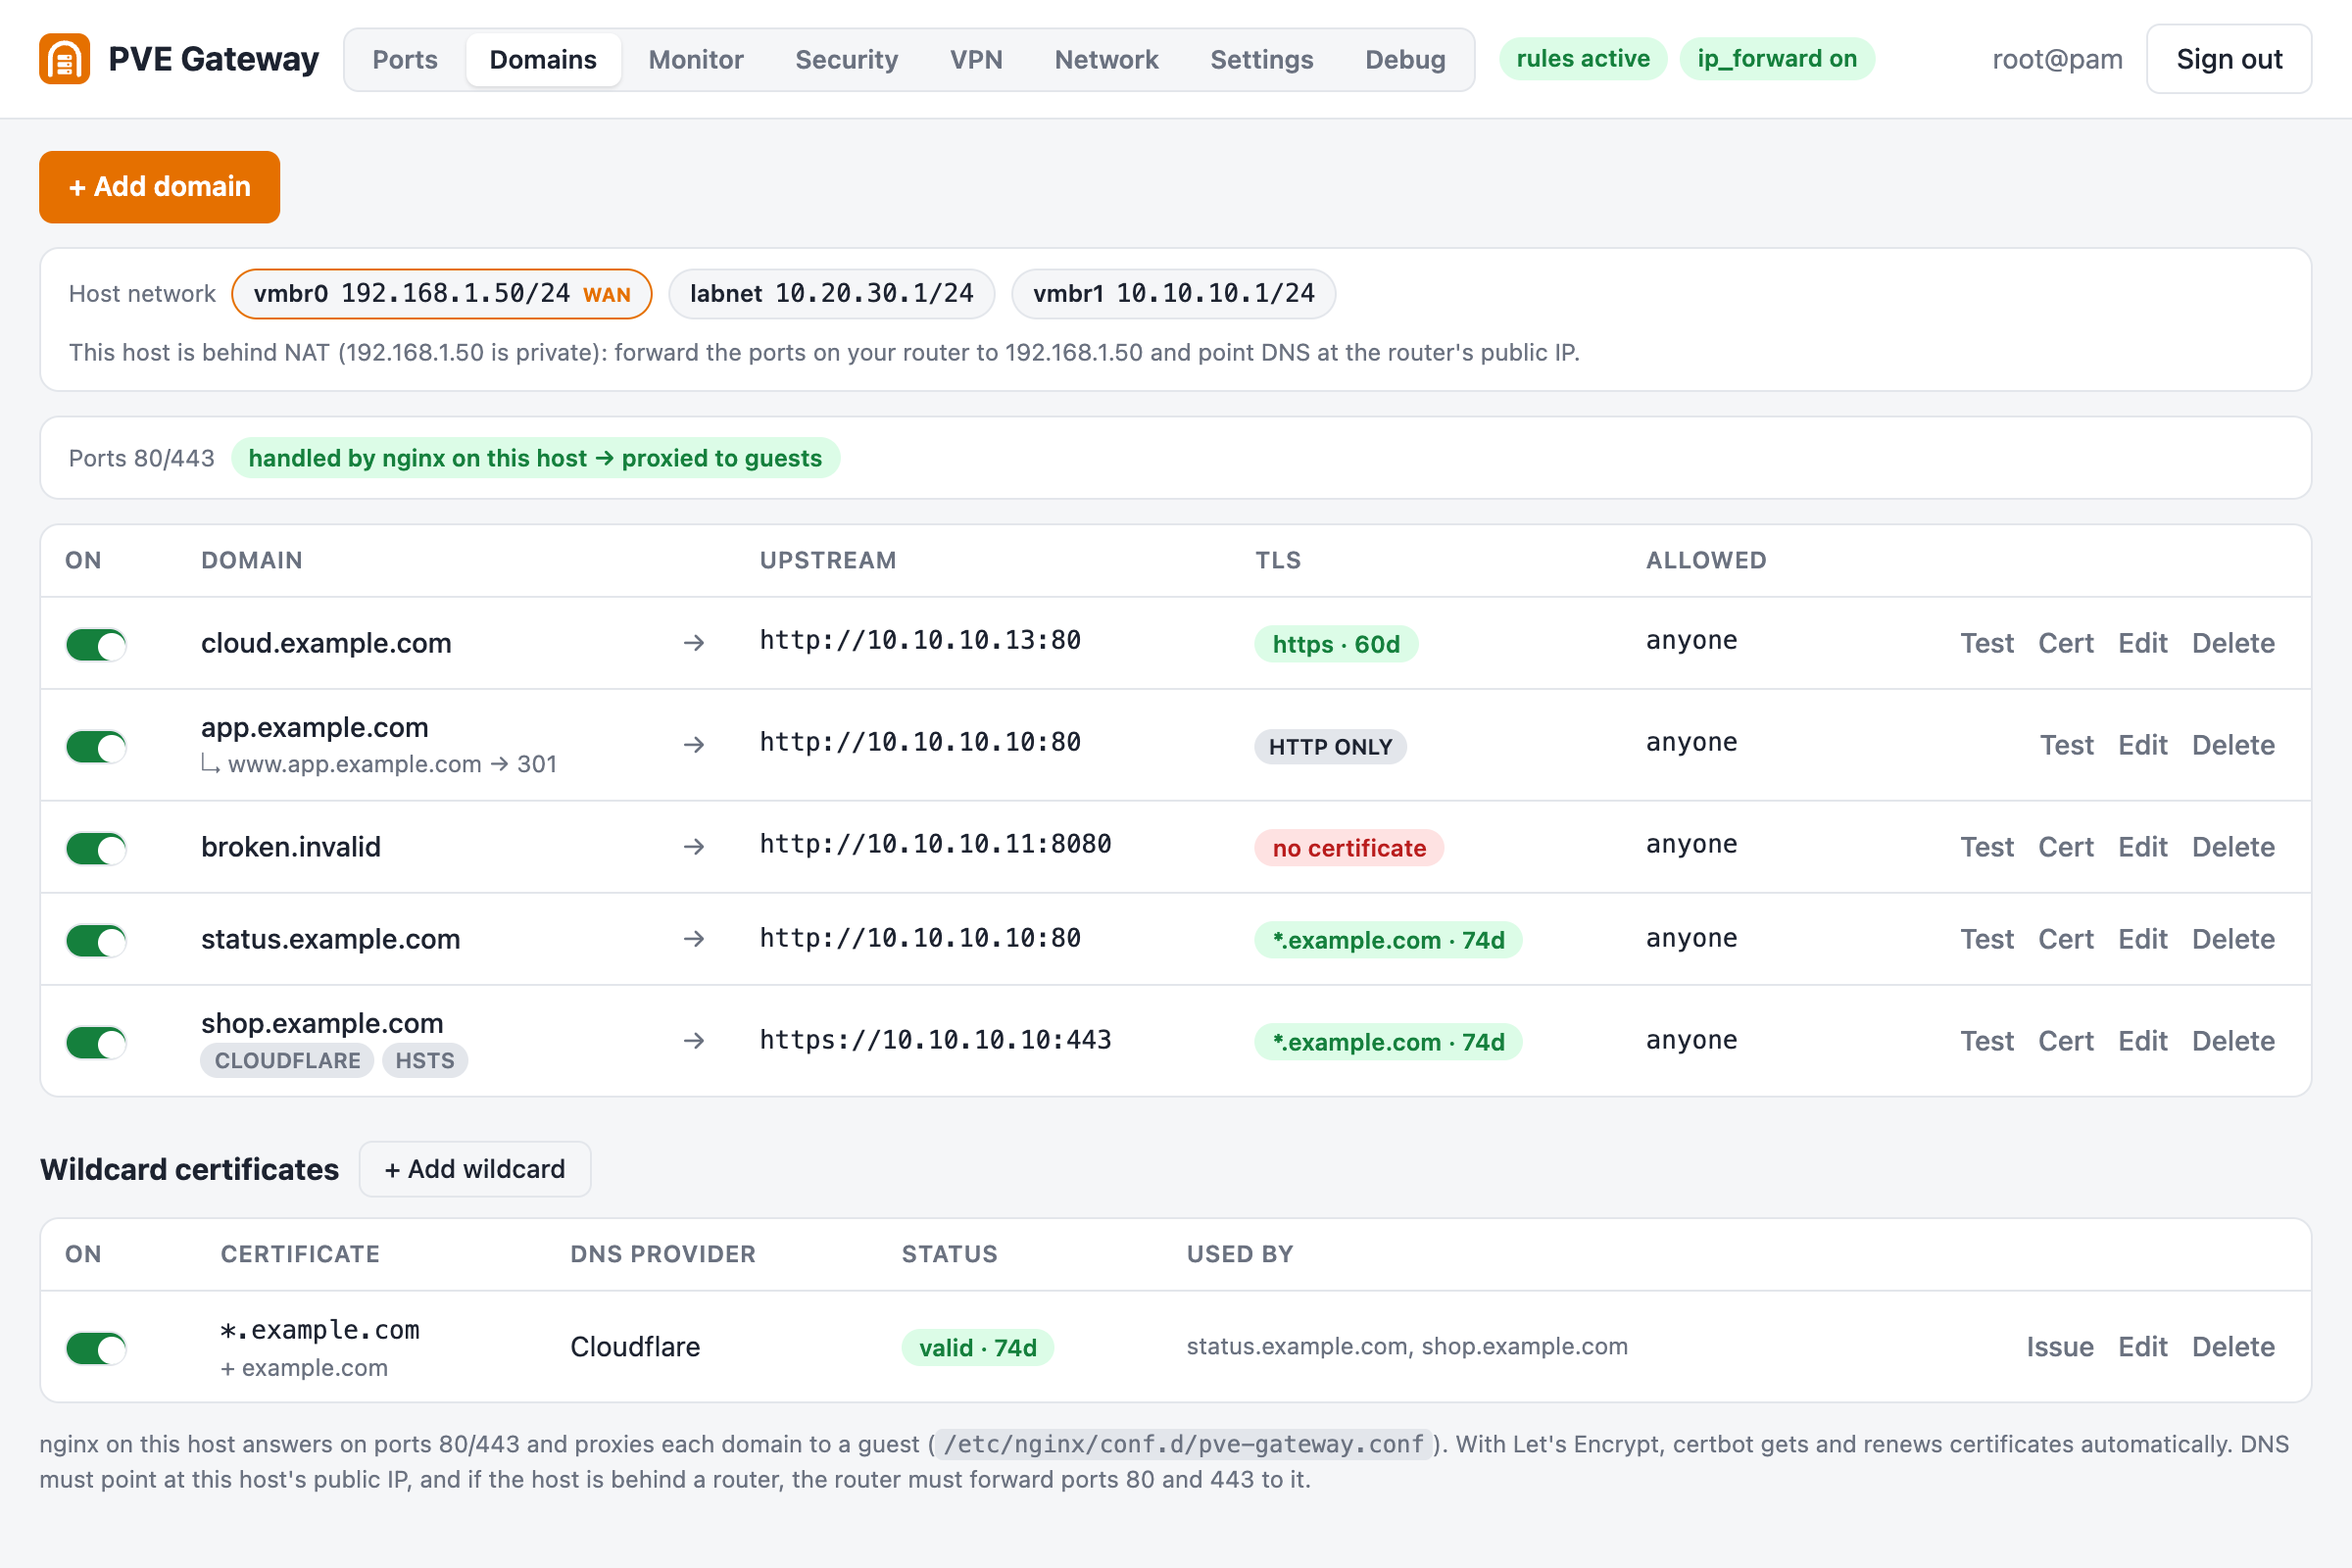
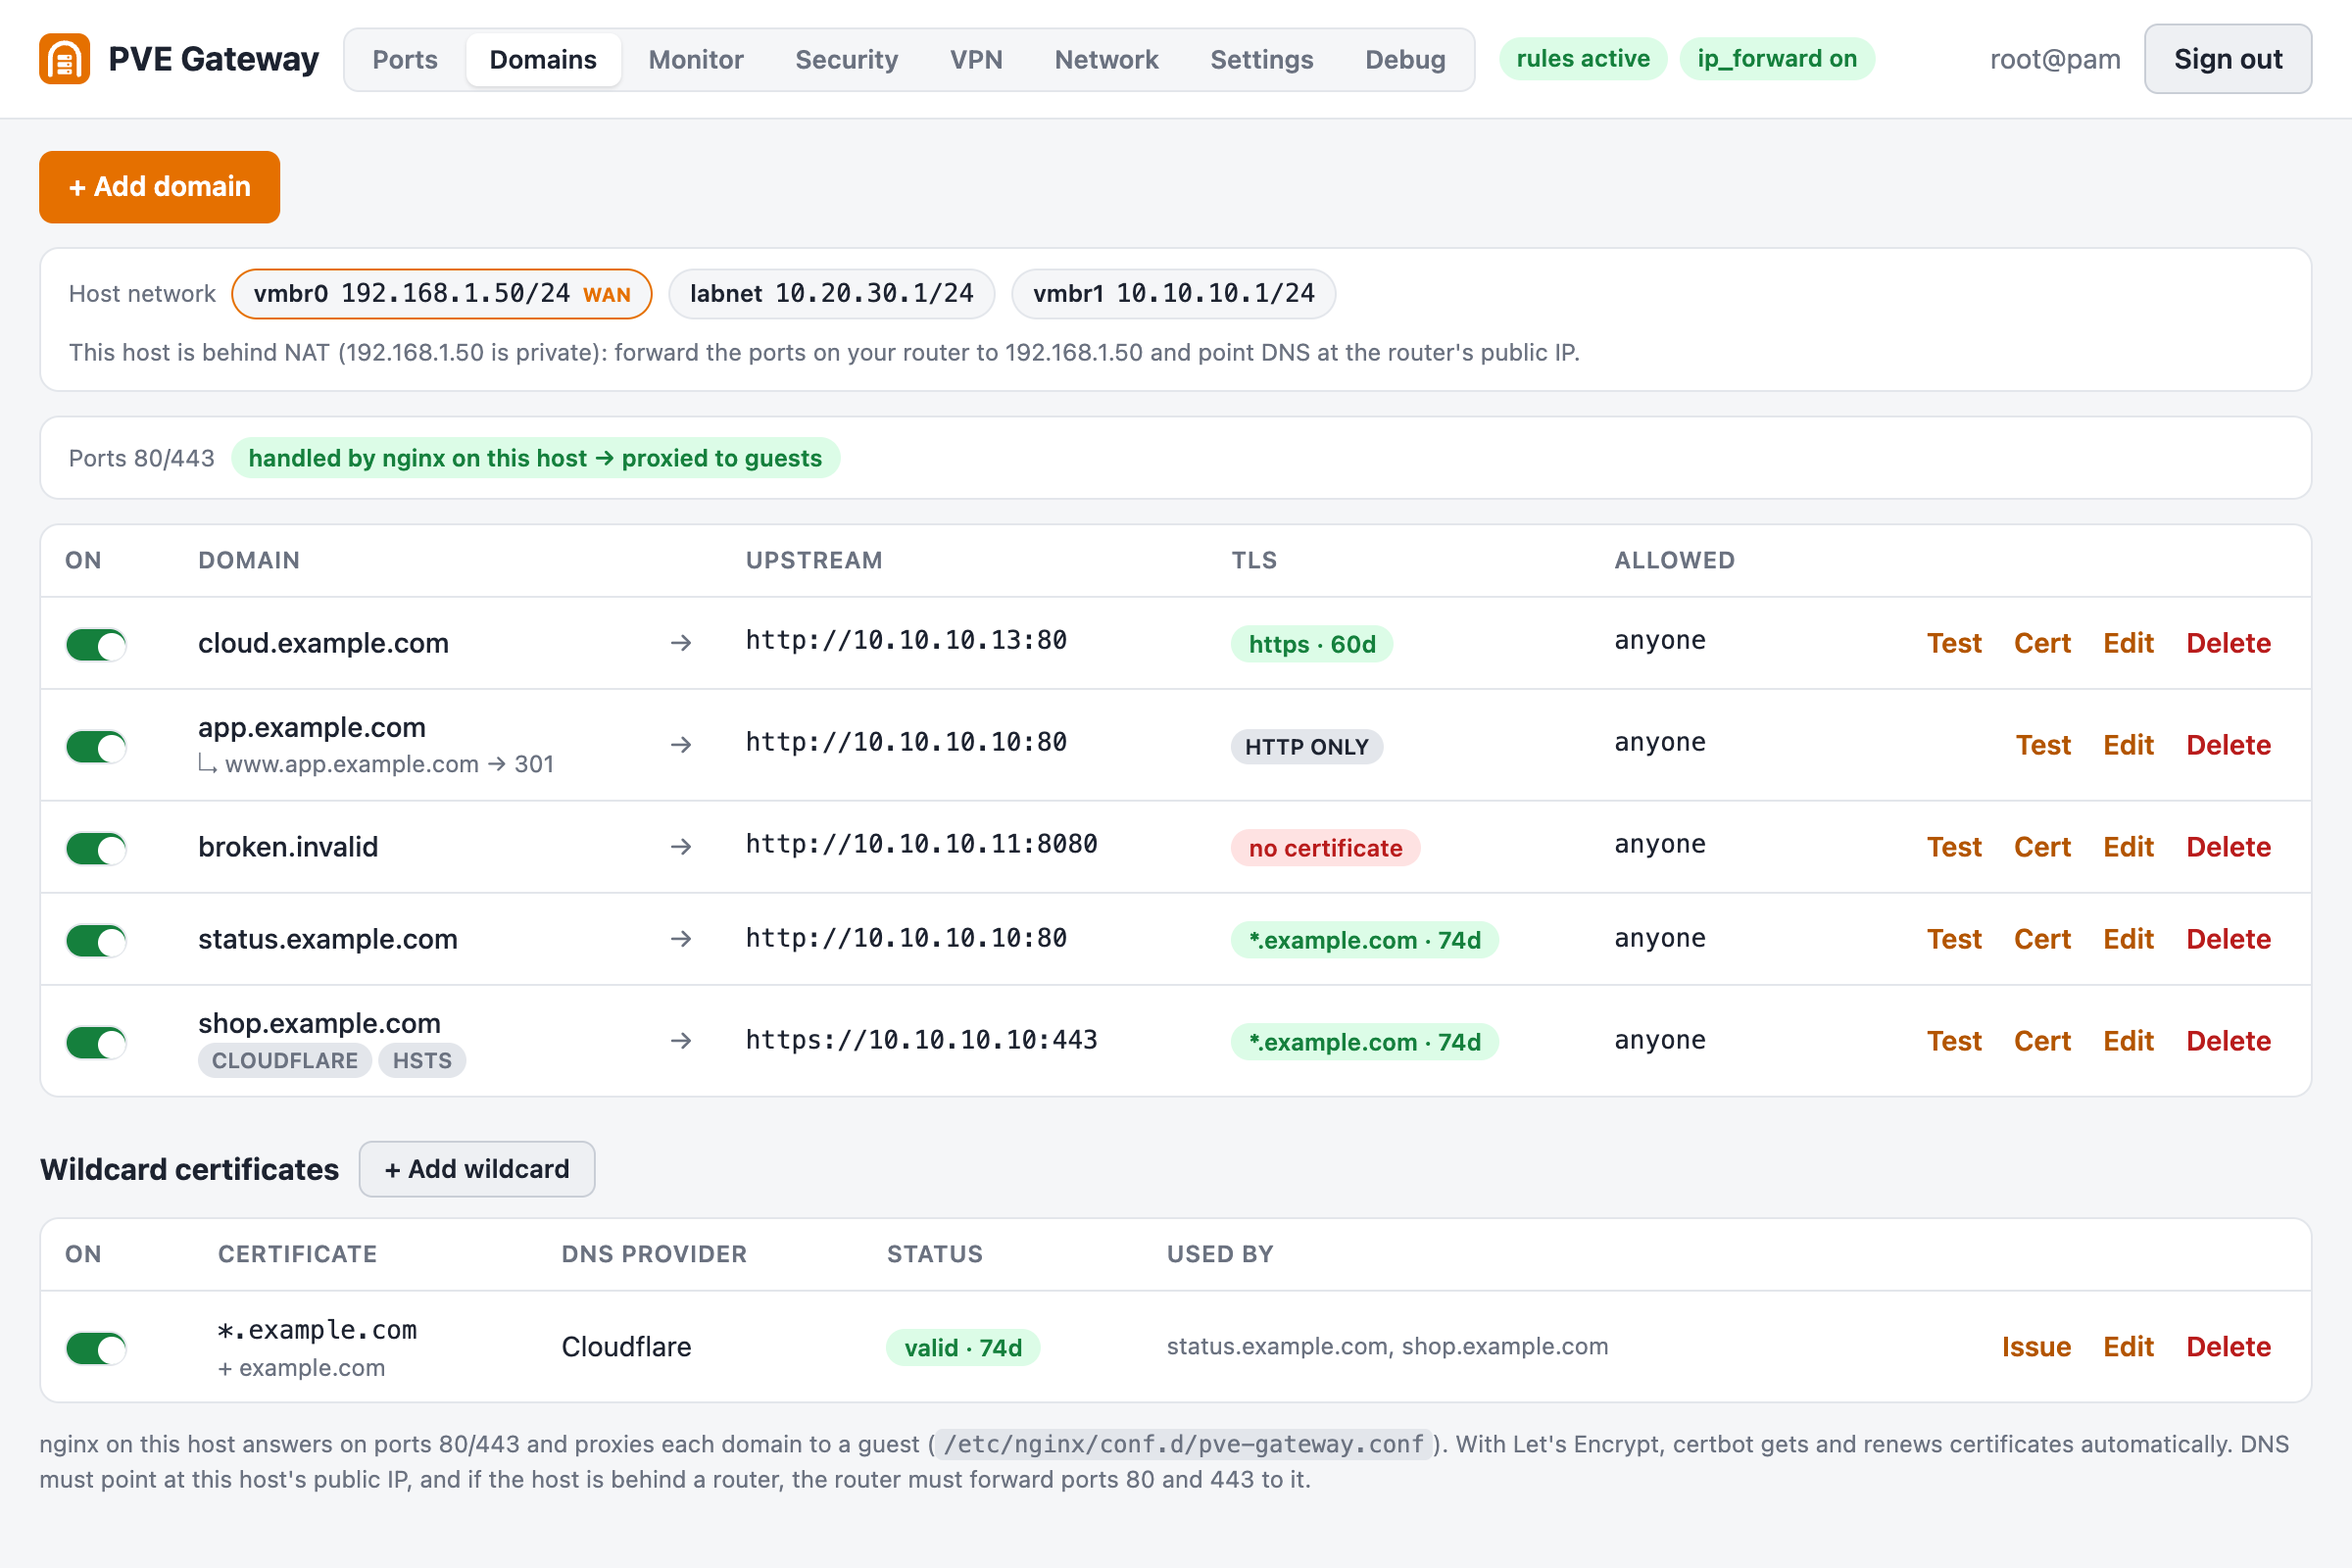
Make secondary buttons more visible (v1.8.2)
Outlined buttons get a filled background and a stronger border; row actions
(Test, Edit, Delete, ...) are coloured text with a hover tint instead of grey.
New theme variables --btn, --btn-line, --link for light and dark mode.

diff --git a/pve-gateway.py b/pve-gateway.py
@@ -44,7 +44,7 @@ from collections import deque
 from concurrent.futures import ThreadPoolExecutor
 from http.server import BaseHTTPRequestHandler, ThreadingHTTPServer
 
-VERSION = "1.8.1"  # semantic version; bump it (and CHANGELOG.md) with every user-visible change
+VERSION = "1.8.2"  # semantic version; bump it (and CHANGELOG.md) with every user-visible change
 REPO_URL = "https://github.com/farruxx/pve-gateway"
 REPO_RAW = "https://raw.githubusercontent.com/farruxx/pve-gateway"
 CONF_DIR = os.environ.get("PVE_GATEWAY_DIR") or "/etc/pve-gateway"
@@ -5083,9 +5083,11 @@ INDEX_HTML = r"""<!doctype html>
 
 APP_CSS = r"""
 :root{--bg:#f5f6f8;--card:#fff;--fg:#1d2330;--muted:#6b7280;--line:#e3e6eb;--accent:#e57000;--accent-fg:#fff;
---ok:#15803d;--ok-bg:#dcfce7;--bad:#b91c1c;--bad-bg:#fee2e2;--warn:#a16207;--warn-bg:#fef9c3;--input:#fff}
+--ok:#15803d;--ok-bg:#dcfce7;--bad:#b91c1c;--bad-bg:#fee2e2;--warn:#a16207;--warn-bg:#fef9c3;--input:#fff;
+--btn:#eef0f3;--btn-line:#c9ced6;--link:#b35500}
 @media (prefers-color-scheme:dark){:root{--bg:#14171c;--card:#1d2128;--fg:#e6e8eb;--muted:#9aa3ae;--line:#2d333c;
---accent:#ff8a1f;--accent-fg:#14171c;--ok:#4ade80;--ok-bg:#14301f;--bad:#f87171;--bad-bg:#3a1717;--warn:#facc15;--warn-bg:#3a3010;--input:#14171c}}
+--accent:#ff8a1f;--accent-fg:#14171c;--ok:#4ade80;--ok-bg:#14301f;--bad:#f87171;--bad-bg:#3a1717;--warn:#facc15;--warn-bg:#3a3010;--input:#14171c;
+--btn:#2a3039;--btn-line:#48515d;--link:#ffa04d}}
 *{box-sizing:border-box}
 [hidden]{display:none!important}
 body{margin:0;background:var(--bg);color:var(--fg);font:14px/1.45 system-ui,-apple-system,"Segoe UI",Roboto,sans-serif}
@@ -5100,10 +5102,13 @@ main{max-width:1200px;margin:0 auto;padding:16px 20px}
 .bar{display:flex;gap:8px;align-items:center;margin-bottom:12px;flex-wrap:wrap}
 button{font:inherit;border:1px solid var(--accent);background:var(--accent);color:var(--accent-fg);padding:7px 14px;border-radius:7px;cursor:pointer;font-weight:600}
 button:disabled{opacity:.5;cursor:default}
-button.ghost{background:transparent;color:var(--fg);border-color:var(--line);font-weight:500}
-button.ghost:hover{border-color:var(--muted)}
-button.link{background:none;border:none;color:var(--muted);padding:4px 6px;font-weight:500}
-button.link:hover{color:var(--fg)}button.link.del:hover{color:var(--bad)}
+button.ghost{background:var(--btn);color:var(--fg);border-color:var(--btn-line);font-weight:600}
+button.ghost:hover:not(:disabled){border-color:var(--accent);color:var(--accent)}
+/* table/row actions (Edit, Test, Delete): coloured text so they read as buttons, a tint on hover */
+button.link{background:none;border:1px solid transparent;color:var(--link);padding:3px 7px;font-weight:600;border-radius:6px}
+button.link:hover:not(:disabled){background:var(--btn);border-color:var(--btn-line)}
+button.link.del{color:var(--bad)}button.link.del:hover:not(:disabled){background:var(--bad-bg);border-color:transparent}
+button.link:disabled{color:var(--muted)}
 table{width:100%;border-collapse:collapse;white-space:nowrap}
 th,td{text-align:left;padding:9px 12px;border-bottom:1px solid var(--line)}
 th{font-size:12px;font-weight:600;color:var(--muted);text-transform:uppercase;letter-spacing:.03em}

diff --git a/CHANGELOG.md b/CHANGELOG.md
@@ -4,6 +4,10 @@ All notable changes to pve-gateway. Versions follow [semantic versioning](https:
 `VERSION` in `pve-gateway.py`. The **Update** button in Settings (and `pve-gateway update`) installs the latest version
 from GitHub and shows the entries below that are newer than the installed one.
 
+## 1.8.2 - 2026-10-16
+- Secondary buttons are easier to see: outlined buttons (Re-apply, + VNet, Cancel, ...) get a filled background and
+  a stronger border, and row actions (Test, Edit, Config, ...) are coloured with a hover highlight. Delete is red.
+
 ## 1.8.1 - 2026-10-16
 - Add rule / Add domain: guests whose IP wasn't detected can now be picked too. That fills the name, focuses the
   IP field and says why the IP is unknown, so you can type it yourself.
